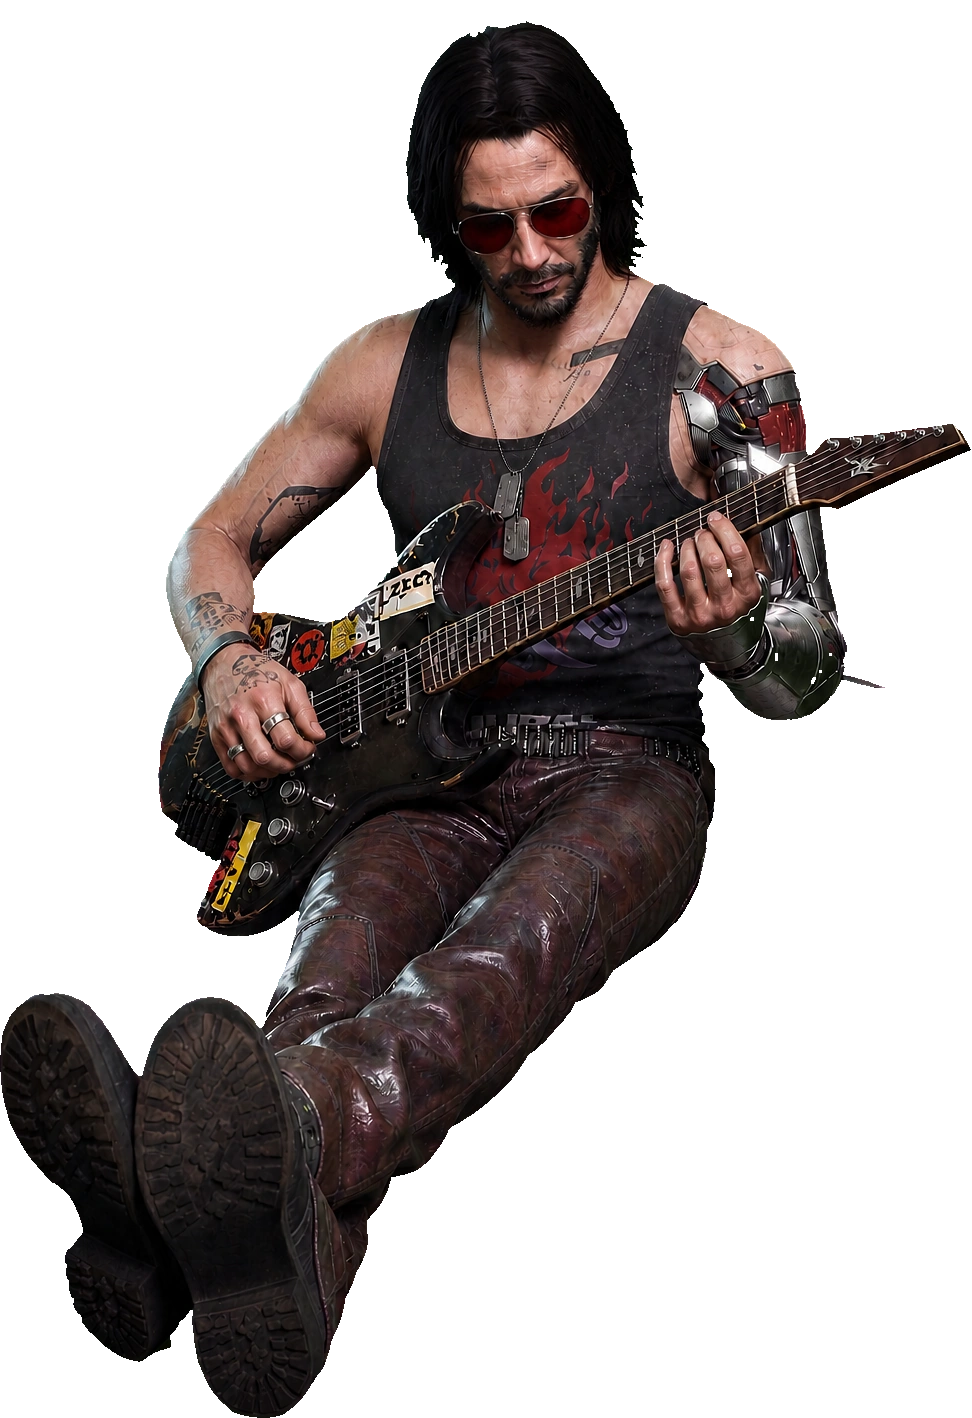
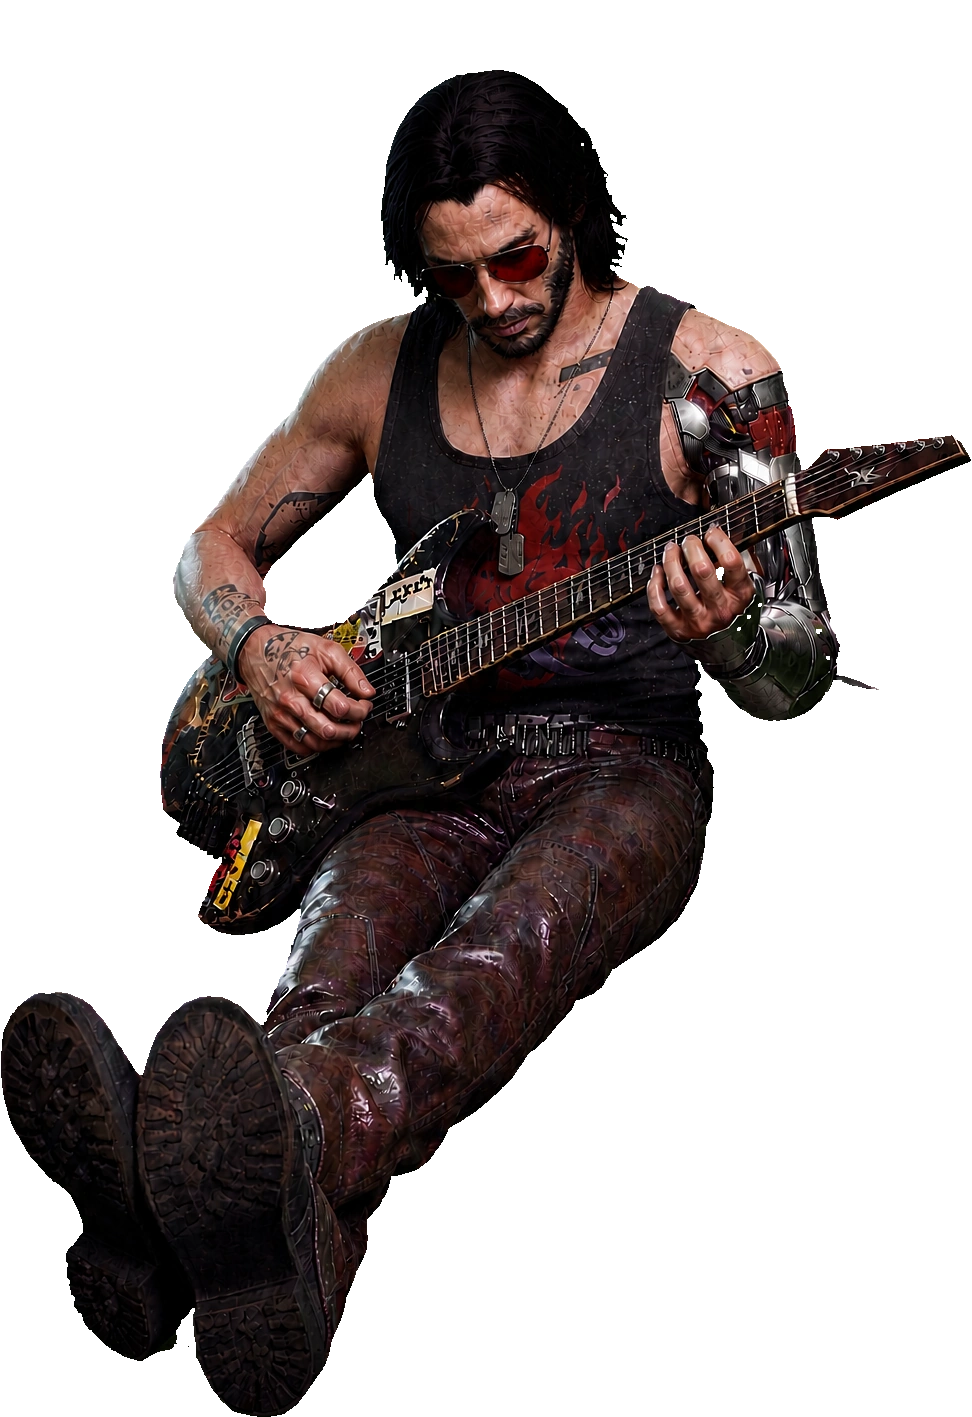
Paint the guitar on a canvas at his own size

diff --git a/src/renderer/js/guitar.js b/src/renderer/js/guitar.js
@@ -1,10 +1,10 @@
-// The guitar: he sits on the edge or in the corner, leans back and plays. A whole song from his playlist,
-// or one chord when nothing is happening. He is drawn at the size of the character he sits beside — never
-// bigger — and when you cut him off he comes apart in a glitch instead of vanishing.
+// The guitar: he sits where the character stands, at the character's own size, and plays a whole song.
+//
+// The drawing is a canvas, not an <img> that is re-pointed every 70 ms: all 24 frames are decoded once, and
+// the loop paints the current one into the same surface. Nothing re-layouts, nothing flickers, and the
+// head sway reads as one long wave instead of a slideshow.
 
-const STRUM_MS = 70; // twenty-four drawings: a whole strumming cycle in 1.7 seconds
-// a sitting man is shorter than the same man standing: this keeps him from looking like a giant
-const SIT_SCALE = 0.78;
+const FRAME_MS = 70;
 const GLITCH_MS = 320;
 
 export class Guitar {
@@ -15,11 +15,14 @@ export class Guitar {
     this.frames = Array.isArray(skin?.guitar?.frames) ? skin.guitar.frames : [];
     this.tracks = Array.isArray(skin?.guitar?.tracks) ? skin.guitar.tracks : [];
     this.audio = null;
-    this.el = null;
+    this.canvas = null;
+    this.ctx = null;
+    this.images = [];
     this.timer = 0;
-    this.frameTimer = 0;
+    this.raf = 0;
     this.frame = 0;
     this.last = -1;
+    this.started = 0;
     this.onChange = null;
   }
 
@@ -28,24 +31,37 @@ export class Guitar {
   }
 
   get playing() {
-    return Boolean(this.el);
+    return Boolean(this.canvas);
   }
 
-  // The place: on the window edge under him when there is one, otherwise the corner of the screen, and
-  // no taller than the character himself.
-  place(img) {
+  loadFrames() {
+    if (this.images.length) return Promise.resolve(this.images);
+    return Promise.all(this.frames.map((src) => new Promise((resolve) => {
+      const img = new Image();
+      img.onload = () => resolve(img);
+      img.onerror = () => resolve(null);
+      img.src = src;
+    }))).then((list) => {
+      this.images = list.filter(Boolean);
+      return this.images;
+    });
+  }
+
+  // Exactly the avatar's size, centred on the avatar's place: the same person, sitting down.
+  place(target = this.canvas) {
+    if (!target) return;
     const avatar = document.getElementById('capri');
     const rect = avatar?.getBoundingClientRect();
-    const floor = this.capri?.view?.floor || window.innerHeight;
-    const height = Math.round((rect?.height || Math.floor(window.innerHeight * 0.36)) * SIT_SCALE);
-    const width = Math.round((height * img.naturalWidth) / (img.naturalHeight || 1));
-    const bottom = Math.max(0, Math.round(window.innerHeight - (rect?.bottom ?? floor)));
+    const height = Math.round(rect?.height || window.innerHeight * 0.36);
+    const ratio = (this.images[0]?.naturalWidth || 972) / (this.images[0]?.naturalHeight || 1417);
+    const width = Math.round(height * ratio);
+    const bottom = Math.max(0, Math.round(window.innerHeight - (rect?.bottom ?? window.innerHeight)));
     const left = Math.round((rect?.left ?? window.innerWidth - width - 10) + ((rect?.width ?? width) - width) / 2);
-    img.style.height = `${height}px`;
-    img.style.width = `${width}px`;
-    img.style.bottom = `${bottom}px`;
-    img.style.left = `${Math.max(0, left)}px`;
-    img.style.right = 'auto';
+    target.style.height = `${height}px`;
+    target.style.width = `${width}px`;
+    target.style.bottom = `${bottom}px`;
+    target.style.left = `${Math.max(0, left)}px`;
+    target.style.right = 'auto';
   }
 
   async start({ seconds = 0, volume = 0.55, track = null } = {}) {
@@ -54,40 +70,39 @@ export class Guitar {
     const src = this.tracks[index];
     if (!src) return false;
 
-    // decode both drawings before showing anything: swapping them later must not flicker
-    await Promise.all(this.frames.map((frame) => new Promise((resolve) => {
-      const probe = new Image();
-      probe.onload = probe.onerror = resolve;
-      probe.src = frame;
-    })));
+    const images = await this.loadFrames();
+    if (!images.length) return false;
 
-    const img = document.createElement('img');
-    img.className = 'guitar';
-    img.src = this.frames[0];
-    img.alt = '';
-    img.decoding = 'async';
-    img.addEventListener('load', () => this.place(img), { once: true });
-    document.body.appendChild(img);
-    this.el = img;
-    this.place(img);
-    img.style.opacity = '1';
-    img.style.transform = 'none';
-    img.classList.add('is-arriving');
+    const canvas = document.createElement('canvas');
+    canvas.className = 'guitar';
+    canvas.width = images[0].naturalWidth;
+    canvas.height = images[0].naturalHeight;
+    this.canvas = canvas;
+    this.ctx = canvas.getContext('2d');
+    this.place(canvas);
+    this.paint(0);
+
     const avatarEl = document.getElementById('capri');
     if (avatarEl) {
       avatarEl.dataset.wasVisible = avatarEl.style.visibility || '';
       avatarEl.style.visibility = 'hidden';
     }
-    requestAnimationFrame(() => {
-      img.classList.remove('is-arriving');
-      img.classList.add('is-here');
-    });
+    document.body.appendChild(canvas);
+    canvas.style.opacity = '1';
+    canvas.classList.add('is-here');
+
     this.frame = 0;
-    this.frameTimer = setInterval(() => {
-      if (!this.el || this.frames.length < 2) return;
-      this.frame = (this.frame + 1) % this.frames.length;
-      this.el.src = this.frames[this.frame];
-    }, STRUM_MS);
+    this.started = performance.now();
+    const tick = () => {
+      if (!this.canvas) return;
+      const want = Math.floor((performance.now() - this.started) / FRAME_MS) % images.length;
+      if (want !== this.frame) {
+        this.frame = want;
+        this.paint(want);
+      }
+      this.raf = requestAnimationFrame(tick);
+    };
+    this.raf = requestAnimationFrame(tick);
 
     const audio = new Audio(src);
     audio.volume = volume;
@@ -101,12 +116,17 @@ export class Guitar {
     return true;
   }
 
-  // A song ran out: he puts the guitar down, no glitch, it was meant to end.
+  paint(index) {
+    const img = this.images[index];
+    if (!img || !this.ctx) return;
+    this.ctx.clearRect(0, 0, this.canvas.width, this.canvas.height);
+    this.ctx.drawImage(img, 0, 0, this.canvas.width, this.canvas.height);
+  }
+
   finish() {
     this.teardown(false);
   }
 
-  // Cut off in the middle: a short glitch, then gone.
   interrupt() {
     if (!this.playing) return;
     this.teardown(true);
@@ -114,9 +134,9 @@ export class Guitar {
 
   teardown(glitch) {
     clearTimeout(this.timer);
-    clearInterval(this.frameTimer);
+    cancelAnimationFrame(this.raf);
     this.timer = 0;
-    this.frameTimer = 0;
+    this.raf = 0;
     if (this.audio) {
       try {
         this.audio.pause();
@@ -126,16 +146,13 @@ export class Guitar {
       }
       this.audio = null;
     }
-    if (!this.el) return;
-    const el = this.el;
-    this.el = null;
+    if (!this.canvas) return;
+    const el = this.canvas;
+    this.canvas = null;
+    this.ctx = null;
     const avatarEl = document.getElementById('capri');
-    // he comes back as the character appears again, out of the same glitch
-    if (glitch) {
-      el.classList.add('is-glitching');
-    } else {
-      el.classList.remove('is-here');
-    }
+    if (glitch) el.classList.add('is-glitching');
+    else el.classList.remove('is-here');
     setTimeout(() => {
       el.remove();
       if (avatarEl) {
